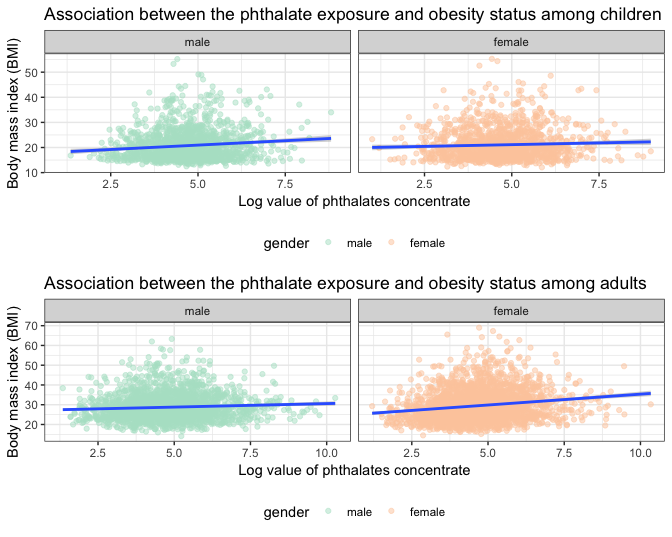
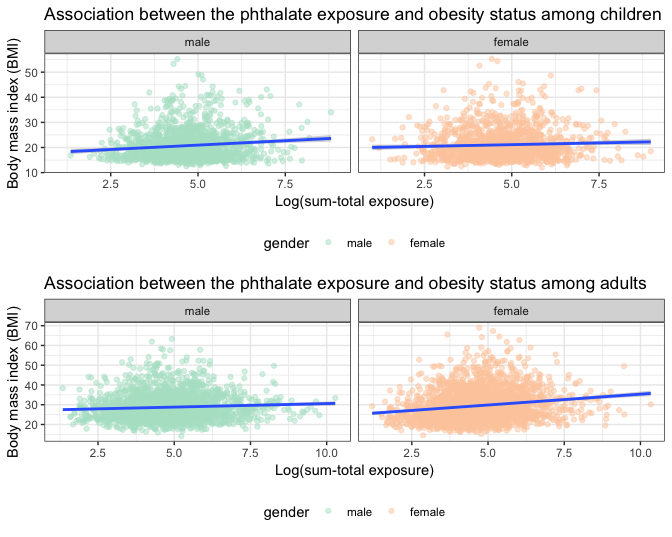
change y label

Changed region(s): [[0.3438, 0.8641, 0.7188, 0.8939], [0.3438, 0.3575, 0.7188, 0.3873]]

diff --git a/report.md b/report.md
@@ -362,7 +362,7 @@ race_dist =
   stat_summary(fun.y = median, geom = "point", size = 1) +
   labs(
     x = "Race",
-    y = "Log value of phthalates concentrate ",
+    y = "Log(sum-total exposure)",
     title = "Distribution of log(total exporsure) in different races"
     ) +
   theme(axis.text.x = element_text(angle = 10, hjust = 1)) +
@@ -392,7 +392,7 @@ poverty_status_dist =
   stat_summary(fun.y = median, geom = "point", size = 1) +
   labs(
     x = "Poverty_statuse",
-    y = "Log value of phthalates concentrate ",
+    y = "Log(sum-total exposure)",
     title = "Distribution of log(total exporsure) in different subpopulations"
     ) +
   guides(fill = guide_legend(title = NULL)) +
@@ -554,7 +554,7 @@ phth_obese_children = phthte_children %>%
   geom_smooth(method = "lm") +
   facet_grid(~gender) +
   labs(
-    x = "Log value of phthalates concentrate",
+    x = "Log(sum-total exposure)",
     y = "Body mass index (BMI)",
     title = "Association between the phthalate exposure and obesity status among children"
   ) +
@@ -567,7 +567,7 @@ phth_obese_adult = phthte_adult %>%
   geom_smooth(method = "lm") +
   facet_grid(~gender) +
   labs(
-    x = "Log value of phthalates concentrate",
+    x = "Log(sum-total exposure)",
     y = "Body mass index (BMI)",
     title = "Association between the phthalate exposure and obesity status among adults"
   ) +
